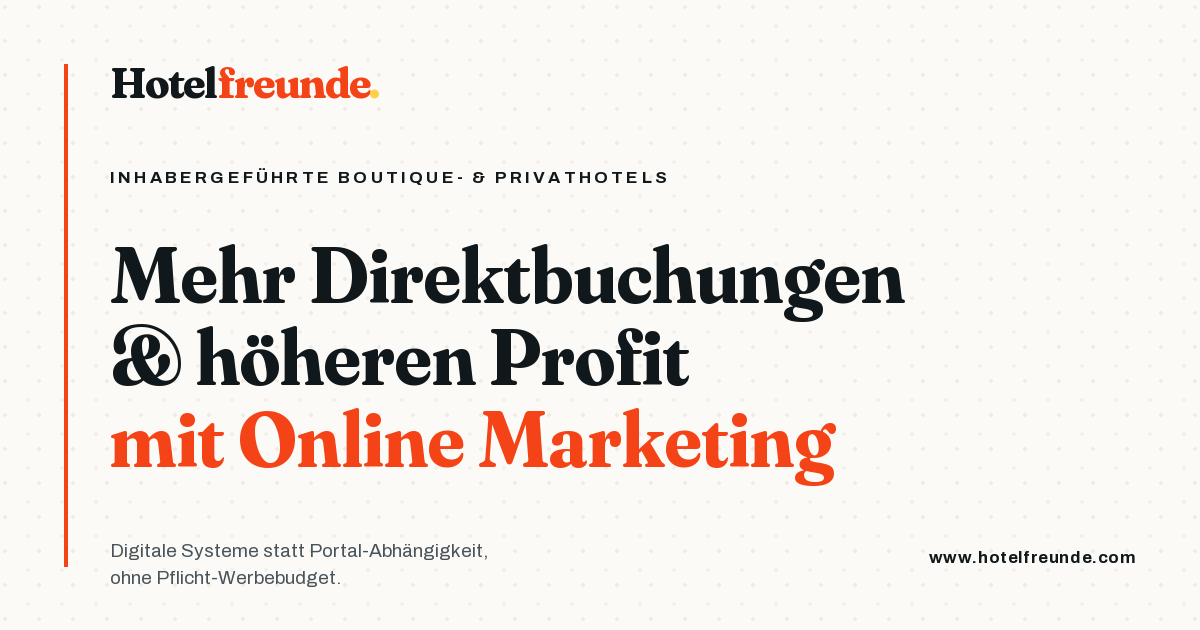
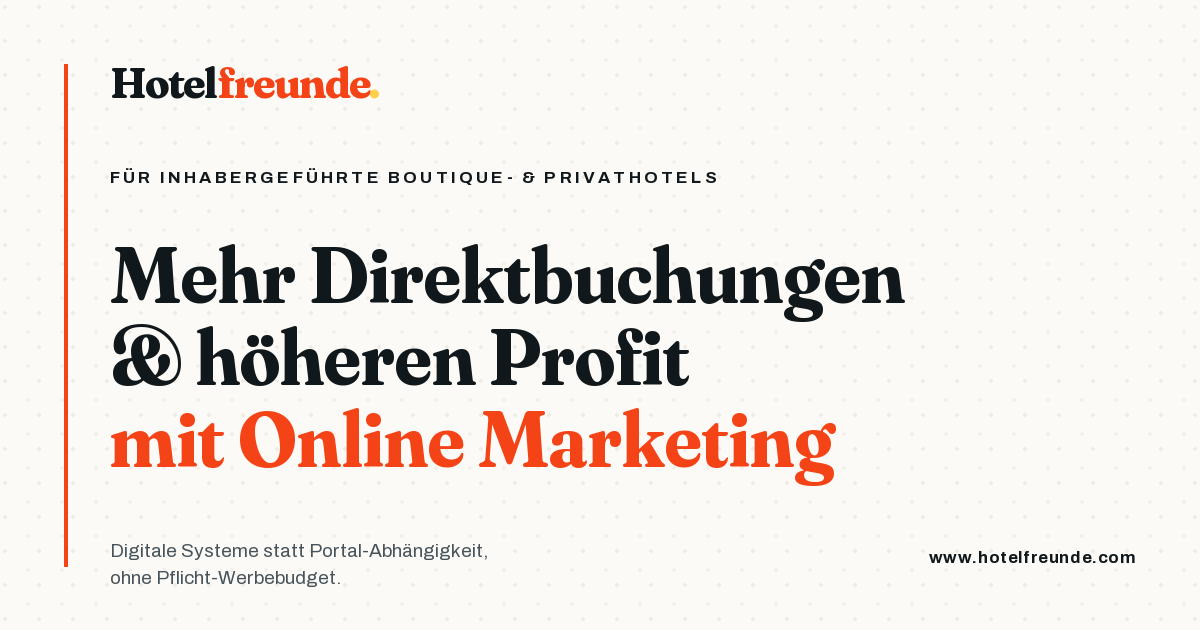
Hero-Eyebrow: "Für" ergaenzt
"Inhabergeführte Boutique- & Privathotels" -> "Für inhabergeführte
Boutique- & Privathotels", auf Martins Nachtrag. og-image mitgezogen.

Geprueft: kein Querueberlauf bei 1280px und 375px, keine Konsolenfehler.

Changed region(s): [[0.0925, 0.2714, 0.6167, 0.3016]]

diff --git a/index.html b/index.html
@@ -800,7 +800,7 @@ footer .wer b{font-size:1.45rem}
     <section class="sec hero" data-halt data-seite="left">
       <div class="hero-grid">
         <div>
-          <p class="eyebrow">Inhabergeführte Boutique- &amp; Privathotels</p>
+          <p class="eyebrow">Für inhabergeführte Boutique- &amp; Privathotels</p>
           <h1 class="display">
             <span class="rvl"><span>Mehr Direktbuchungen</span></span>
             <span class="rvl"><span>&amp; höheren Profit</span></span>

diff --git a/og-image-erzeugen.py b/og-image-erzeugen.py
@@ -109,7 +109,7 @@ def bauen():
 
         # Eyebrow
         zeichne_getrackt(
-            d, (content_x, 168), "INHABERGEFÜHRTE BOUTIQUE- & PRIVATHOTELS",
+            d, (content_x, 168), "FÜR INHABERGEFÜHRTE BOUTIQUE- & PRIVATHOTELS",
             archivo_bold_s, INK, tracking=3.2,
         )
 
